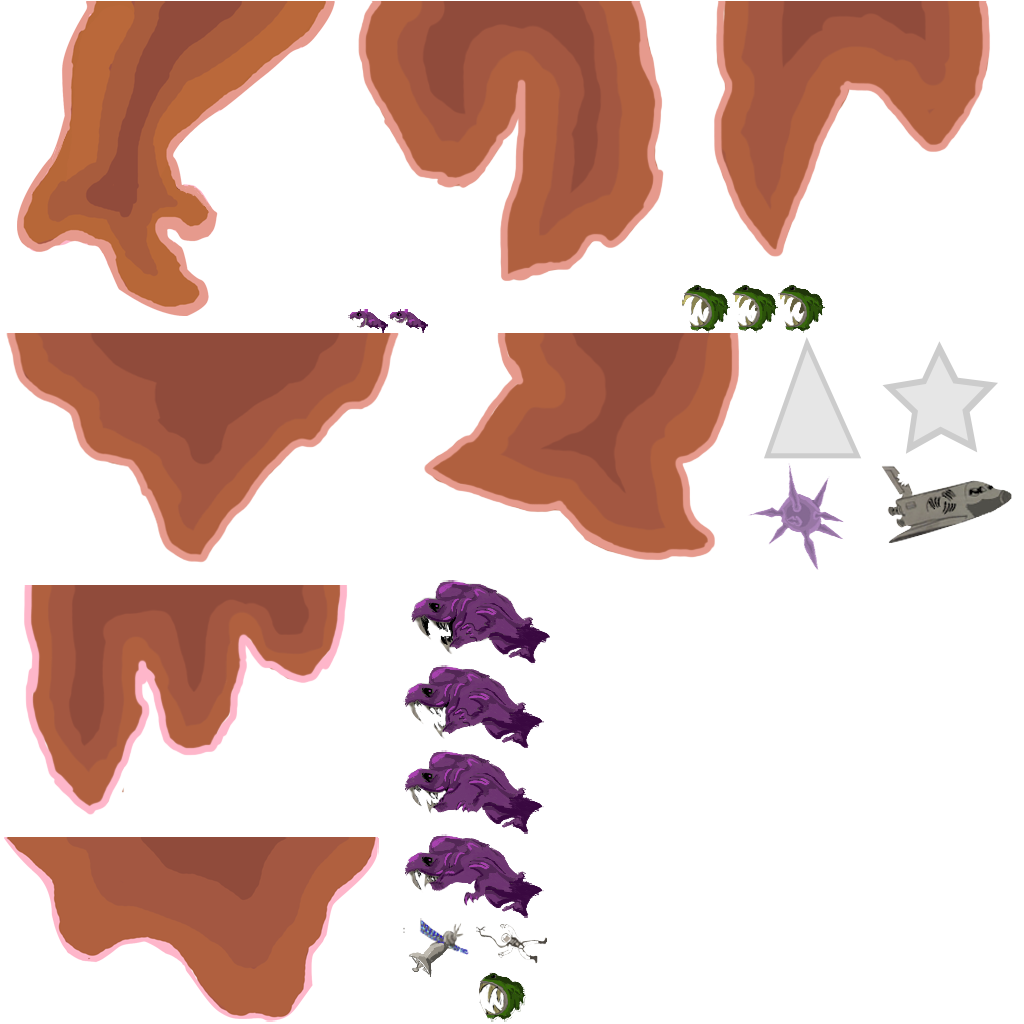
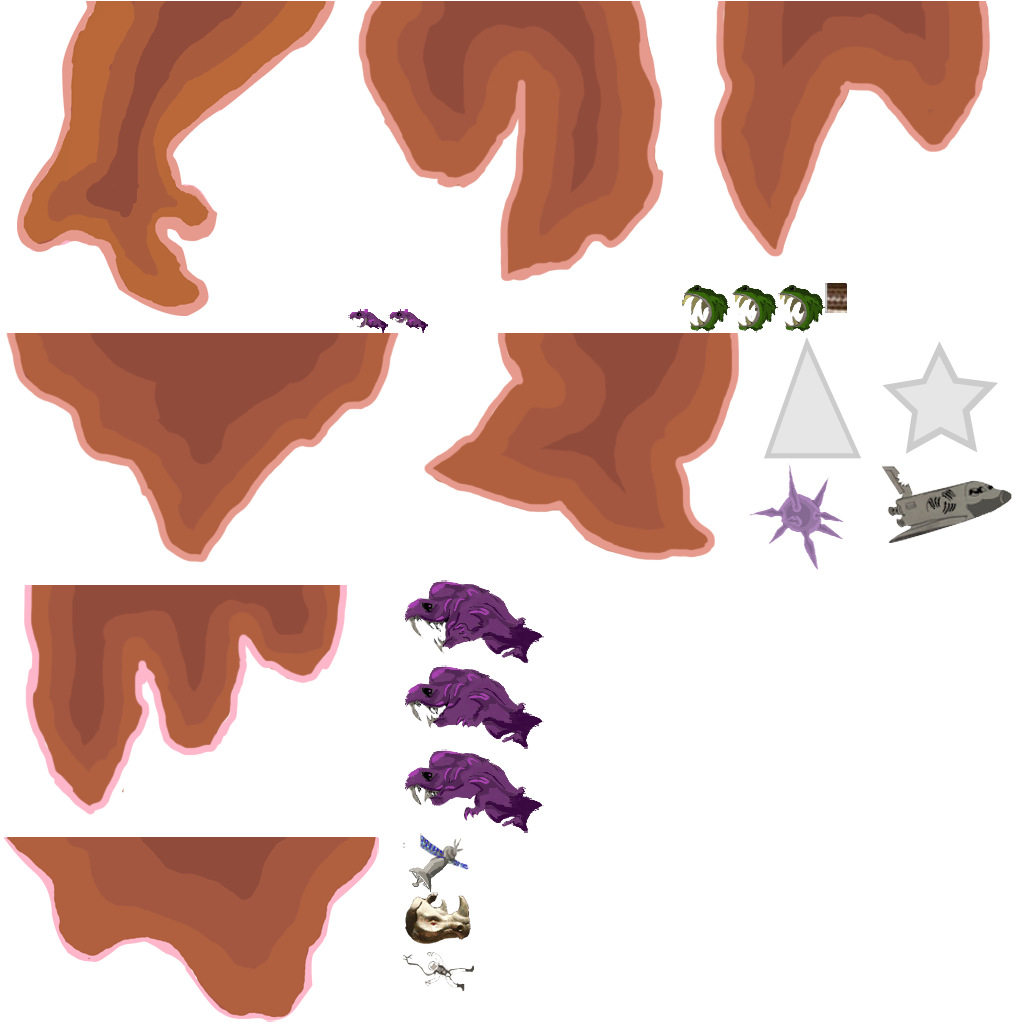
added sprites for snake

Changed region(s): [[0.375, 0.6875, 0.5312, 1.0], [0.375, 0.5625, 0.5312, 0.6562], [0.7812, 0.2812, 0.8438, 0.3125]]

diff --git a/medusa-core/src/main/java/uy/globalgamejam/medusa/templates/TailPartTemplate.java b/medusa-core/src/main/java/uy/globalgamejam/medusa/templates/TailPartTemplate.java
@@ -4,14 +4,19 @@ import uy.globalgamejam.medusa.Collisions;
 import uy.globalgamejam.medusa.components.Components;
 import uy.globalgamejam.medusa.components.TailComponent;
 import uy.globalgamejam.medusa.components.TailPartComponent;
+import uy.globalgamejam.medusa.resources.GameResources.Sprites;
 
 import com.artemis.Entity;
 import com.artemis.World;
+import com.badlogic.gdx.graphics.Color;
+import com.badlogic.gdx.graphics.g2d.Sprite;
 import com.badlogic.gdx.physics.box2d.Body;
 import com.badlogic.gdx.physics.box2d.BodyDef.BodyType;
 import com.gemserk.commons.artemis.components.PhysicsComponent;
+import com.gemserk.commons.artemis.components.RenderableComponent;
 import com.gemserk.commons.artemis.components.ScriptComponent;
 import com.gemserk.commons.artemis.components.SpatialComponent;
+import com.gemserk.commons.artemis.components.SpriteComponent;
 import com.gemserk.commons.artemis.scripts.ScriptJavaImpl;
 import com.gemserk.commons.artemis.templates.EntityFactory;
 import com.gemserk.commons.artemis.templates.EntityTemplateImpl;
@@ -21,6 +26,7 @@ import com.gemserk.commons.gdx.games.Spatial;
 import com.gemserk.commons.gdx.games.SpatialPhysicsImpl;
 import com.gemserk.commons.reflection.Injector;
 import com.gemserk.componentsengine.utils.ParametersWrapper;
+import com.gemserk.resources.ResourceManager;
 
 public class TailPartTemplate extends EntityTemplateImpl {
 
@@ -80,6 +86,7 @@ public class TailPartTemplate extends EntityTemplateImpl {
 
 	BodyBuilder bodyBuilder;
 	Injector injector;
+	ResourceManager<String> resourceManager;
 
 	public void setInjector(Injector injector) {
 		this.injector = injector;
@@ -92,6 +99,7 @@ public class TailPartTemplate extends EntityTemplateImpl {
 	@Override
 	public void apply(Entity entity) {
 		Spatial spatial = parameters.get("spatial");
+		spatial.setSize(0.7f, 0.7f);
 		Entity owner = parameters.get("owner");
 
 		Body body = bodyBuilder //
@@ -112,6 +120,12 @@ public class TailPartTemplate extends EntityTemplateImpl {
 		entity.addComponent(new ScriptComponent(injector.getInstance(DestroyTailScript.class)));
 
 		entity.addComponent(new TailPartComponent(owner));
+		
+		Sprite sprite = resourceManager.getResourceValue(Sprites.Cuerpo);
+		
+
+		entity.addComponent(new SpriteComponent(sprite, 0.5f, 0.5f, Color.WHITE));
+		entity.addComponent(new RenderableComponent(4, true));
 	}
 
 }

diff --git a/medusa-core/src/main/java/uy/globalgamejam/medusa/templates/SnakeCharacterTemplate.java b/medusa-core/src/main/java/uy/globalgamejam/medusa/templates/SnakeCharacterTemplate.java
@@ -5,6 +5,7 @@ import uy.globalgamejam.medusa.components.Controller;
 import uy.globalgamejam.medusa.components.ControllerComponent;
 import uy.globalgamejam.medusa.components.EngineComponent;
 import uy.globalgamejam.medusa.components.TailComponent;
+import uy.globalgamejam.medusa.resources.GameResources.Sprites;
 import uy.globalgamejam.medusa.scripts.CharacterMovementScript;
 import uy.globalgamejam.medusa.scripts.EatEnemiesScript;
 import uy.globalgamejam.medusa.scripts.EngineScript;
@@ -13,11 +14,15 @@ import uy.globalgamejam.medusa.scripts.ReplayRecorderScript;
 import uy.globalgamejam.medusa.tags.Tags;
 
 import com.artemis.Entity;
+import com.badlogic.gdx.graphics.Color;
+import com.badlogic.gdx.graphics.g2d.Sprite;
 import com.badlogic.gdx.physics.box2d.Body;
 import com.badlogic.gdx.physics.box2d.BodyDef.BodyType;
 import com.gemserk.commons.artemis.components.PhysicsComponent;
+import com.gemserk.commons.artemis.components.RenderableComponent;
 import com.gemserk.commons.artemis.components.ScriptComponent;
 import com.gemserk.commons.artemis.components.SpatialComponent;
+import com.gemserk.commons.artemis.components.SpriteComponent;
 import com.gemserk.commons.artemis.components.TagComponent;
 import com.gemserk.commons.artemis.templates.EntityTemplateImpl;
 import com.gemserk.commons.gdx.box2d.BodyBuilder;
@@ -48,6 +53,7 @@ public class SnakeCharacterTemplate extends EntityTemplateImpl {
 	public void apply(Entity entity) {
 		Spatial spatial = parameters.get("spatial");
 
+		spatial.setSize(1.5f, 1.5f);
 		Body body = bodyBuilder //
 				.fixture(bodyBuilder.fixtureDefBuilder() //
 						.circleShape(0.5f) //
@@ -68,6 +74,13 @@ public class SnakeCharacterTemplate extends EntityTemplateImpl {
 
 		entity.addComponent(new EngineComponent(10f));
 		entity.addComponent(new TailComponent());
+		
+		Sprite sprite = resourceManager.getResourceValue(Sprites.Cabeza);
+		
+
+		entity.addComponent(new SpriteComponent(sprite, 0.5f, 0.5f, Color.WHITE));
+		entity.addComponent(new RenderableComponent(5, true));
+		
 		
 		ReplayRecorderScript replayRecorderScript = new ReplayRecorderScript();
 		injector.injectMembers(replayRecorderScript);

diff --git a/medusa-core/src/main/java/uy/globalgamejam/medusa/templates/ObstacleTailPartTemplate.java b/medusa-core/src/main/java/uy/globalgamejam/medusa/templates/ObstacleTailPartTemplate.java
@@ -1,24 +1,31 @@
 package uy.globalgamejam.medusa.templates;
 
 import uy.globalgamejam.medusa.Collisions;
+import uy.globalgamejam.medusa.resources.GameResources.Sprites;
 import uy.globalgamejam.medusa.tags.Groups;
 
 import com.artemis.Entity;
+import com.badlogic.gdx.graphics.Color;
+import com.badlogic.gdx.graphics.g2d.Sprite;
 import com.badlogic.gdx.physics.box2d.Body;
 import com.badlogic.gdx.physics.box2d.BodyDef.BodyType;
 import com.gemserk.commons.artemis.components.GroupComponent;
 import com.gemserk.commons.artemis.components.PhysicsComponent;
+import com.gemserk.commons.artemis.components.RenderableComponent;
 import com.gemserk.commons.artemis.components.SpatialComponent;
+import com.gemserk.commons.artemis.components.SpriteComponent;
 import com.gemserk.commons.artemis.templates.EntityTemplateImpl;
 import com.gemserk.commons.gdx.box2d.BodyBuilder;
 import com.gemserk.commons.gdx.games.Spatial;
 import com.gemserk.commons.gdx.games.SpatialPhysicsImpl;
 import com.gemserk.commons.reflection.Injector;
+import com.gemserk.resources.ResourceManager;
 
 public class ObstacleTailPartTemplate extends EntityTemplateImpl {
 
 	BodyBuilder bodyBuilder;
 	Injector injector;
+	ResourceManager<String> resourceManager;
 
 	public void setInjector(Injector injector) {
 		this.injector = injector;
@@ -31,7 +38,7 @@ public class ObstacleTailPartTemplate extends EntityTemplateImpl {
 	@Override
 	public void apply(Entity entity) {
 		Spatial spatial = parameters.get("spatial");
-
+		spatial.setSize(0.7f, 0.7f);
 		Body body = bodyBuilder //
 				.fixture(bodyBuilder.fixtureDefBuilder() //
 						.circleShape(0.1f) //
@@ -50,6 +57,12 @@ public class ObstacleTailPartTemplate extends EntityTemplateImpl {
 
 		entity.addComponent(new PhysicsComponent(body));
 		entity.addComponent(new SpatialComponent(new SpatialPhysicsImpl(body, spatial)));
+		
+		Sprite sprite = resourceManager.getResourceValue(Sprites.Cabeza);
+		
+
+		entity.addComponent(new SpriteComponent(sprite, 0.5f, 0.5f, Color.WHITE));
+		entity.addComponent(new RenderableComponent(4, true));
 	}
 
 }

diff --git a/medusa-core/src/main/java/uy/globalgamejam/medusa/templates/SnakeGhostTemplate.java b/medusa-core/src/main/java/uy/globalgamejam/medusa/templates/SnakeGhostTemplate.java
@@ -7,18 +7,23 @@ import uy.globalgamejam.medusa.components.Components;
 import uy.globalgamejam.medusa.components.Replay;
 import uy.globalgamejam.medusa.components.Replay.ReplayEntry;
 import uy.globalgamejam.medusa.components.TailComponent;
+import uy.globalgamejam.medusa.resources.GameResources.Sprites;
 import uy.globalgamejam.medusa.scripts.EatEnemiesScript;
 import uy.globalgamejam.medusa.scripts.MoveTailScript;
 
 import com.artemis.Component;
 import com.artemis.Entity;
 import com.artemis.World;
+import com.badlogic.gdx.graphics.Color;
+import com.badlogic.gdx.graphics.g2d.Sprite;
 import com.badlogic.gdx.physics.box2d.Body;
 import com.badlogic.gdx.physics.box2d.BodyDef.BodyType;
 import com.gemserk.animation4j.interpolator.FloatInterpolator;
 import com.gemserk.commons.artemis.components.PhysicsComponent;
+import com.gemserk.commons.artemis.components.RenderableComponent;
 import com.gemserk.commons.artemis.components.ScriptComponent;
 import com.gemserk.commons.artemis.components.SpatialComponent;
+import com.gemserk.commons.artemis.components.SpriteComponent;
 import com.gemserk.commons.artemis.scripts.ScriptJavaImpl;
 import com.gemserk.commons.artemis.templates.EntityFactory;
 import com.gemserk.commons.artemis.templates.EntityTemplate;
@@ -160,6 +165,7 @@ public class SnakeGhostTemplate extends EntityTemplateImpl {
 	@Override
 	public void apply(Entity entity) {
 		Spatial spatial = parameters.get("spatial");
+		spatial.setSize(1.5f, 1.5f);
 		Replay replay = parameters.get("replay");
 		Float offset = parameters.get("offset", 1f);
 
@@ -190,6 +196,11 @@ public class SnakeGhostTemplate extends EntityTemplateImpl {
 				injector.getInstance(MoveTailScript.class), //
 				replayMovementScript));
 
+		Sprite sprite = resourceManager.getResourceValue(Sprites.Cabeza);
+		
+
+		entity.addComponent(new SpriteComponent(sprite, 0.5f, 0.5f, Color.WHITE));
+		entity.addComponent(new RenderableComponent(5, true));
 	}
 
 }

diff --git a/medusa-core/src/main/java/uy/globalgamejam/medusa/resources/GameResources.java b/medusa-core/src/main/java/uy/globalgamejam/medusa/resources/GameResources.java
@@ -28,6 +28,8 @@ public class GameResources extends LibgdxResourceBuilder {
 		public static final String Astronauta = "Astronauta";
 		public static final String Nave = "Nave";
 		public static final String Satelite = "Satelite";
+		public static final String Cabeza = "Cabeza";
+		public static final String Cuerpo = "Cuerpo";
 	}
 
 	public static class Animations {
@@ -99,6 +101,15 @@ public class GameResources extends LibgdxResourceBuilder {
 		
 		resource(Sprites.Satelite, sprite2() //
 				.textureAtlas(TextureAtlases.Images, "extra3a"));
+		
+		
+		resource(Sprites.Cabeza, sprite2() //
+				.textureAtlas(TextureAtlases.Images, "cabeza"));
+		
+		
+		resource(Sprites.Cuerpo, sprite2() //
+				.textureAtlas(TextureAtlases.Images, "cuerpo"));
+		
 		
 		// resource(Sprites.Muro1, sprite2() //
 		// .textureAtlas(TextureAtlases.Images, "muro1"));

diff --git a/medusa-core/src/main/java/uy/globalgamejam/medusa/PlayGameState.java b/medusa-core/src/main/java/uy/globalgamejam/medusa/PlayGameState.java
@@ -145,7 +145,7 @@ public class PlayGameState extends GameStateImpl {
 		scene.addRenderSystem(new SpriteUpdateSystem(new TimeStepProviderGameStateImpl(this)));
 		scene.addRenderSystem(new CameraUpdateSystem(new TimeStepProviderGameStateImpl(this)));
 
-		scene.addRenderSystem(new Box2dRenderSystem(worldCamera, physicsWorld));
+//		scene.addRenderSystem(new Box2dRenderSystem(worldCamera, physicsWorld));
 		scene.addRenderSystem(new RenderableSystem(renderLayers));
 		
 		scene.init();
